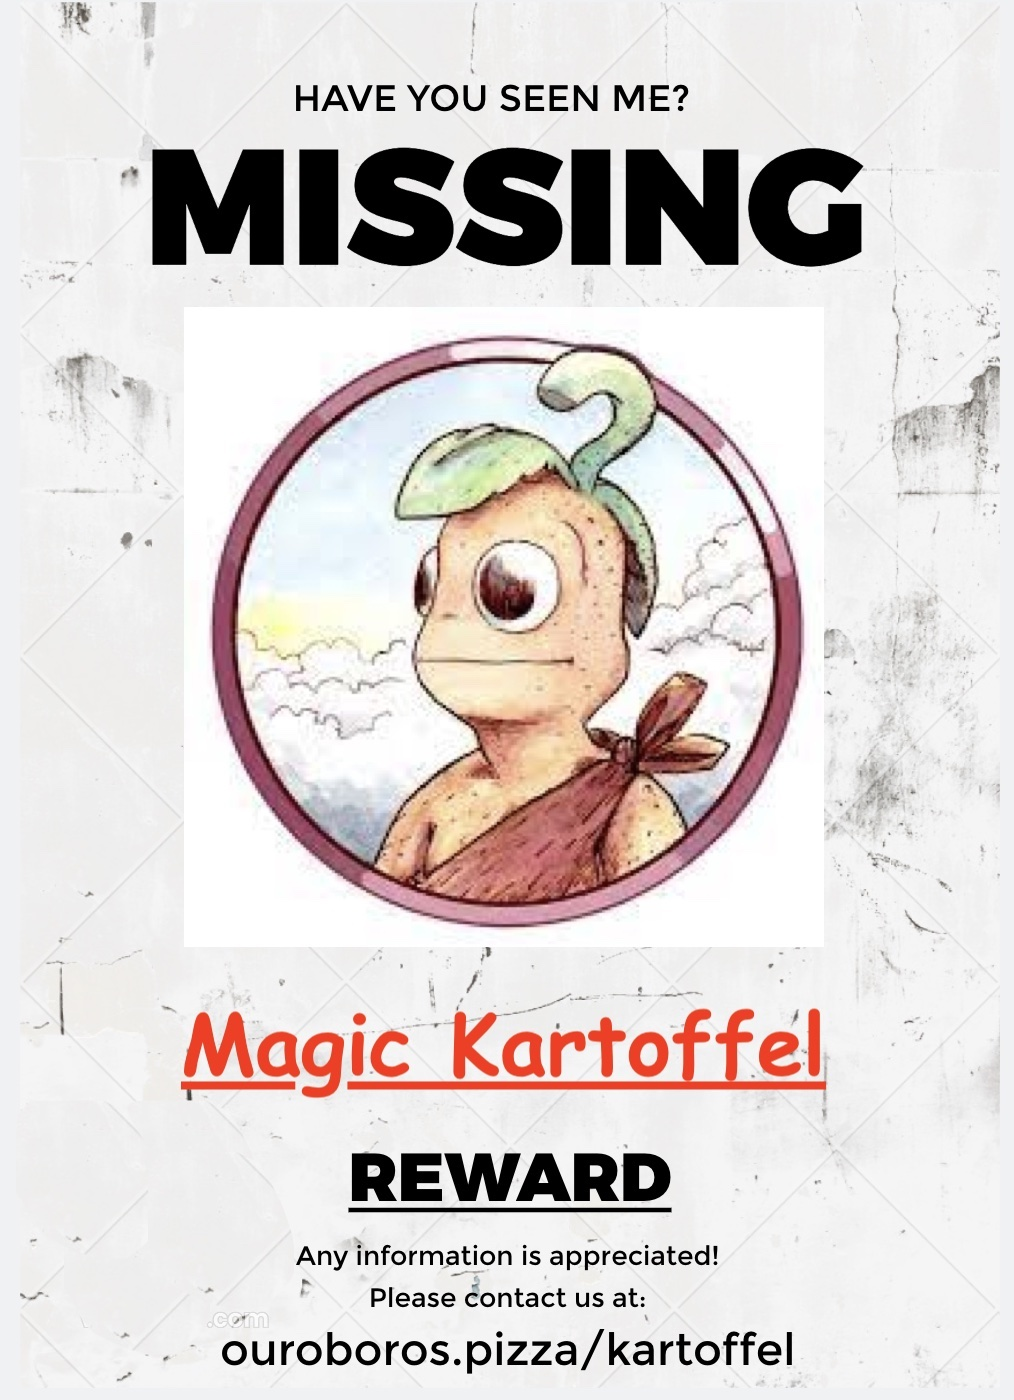
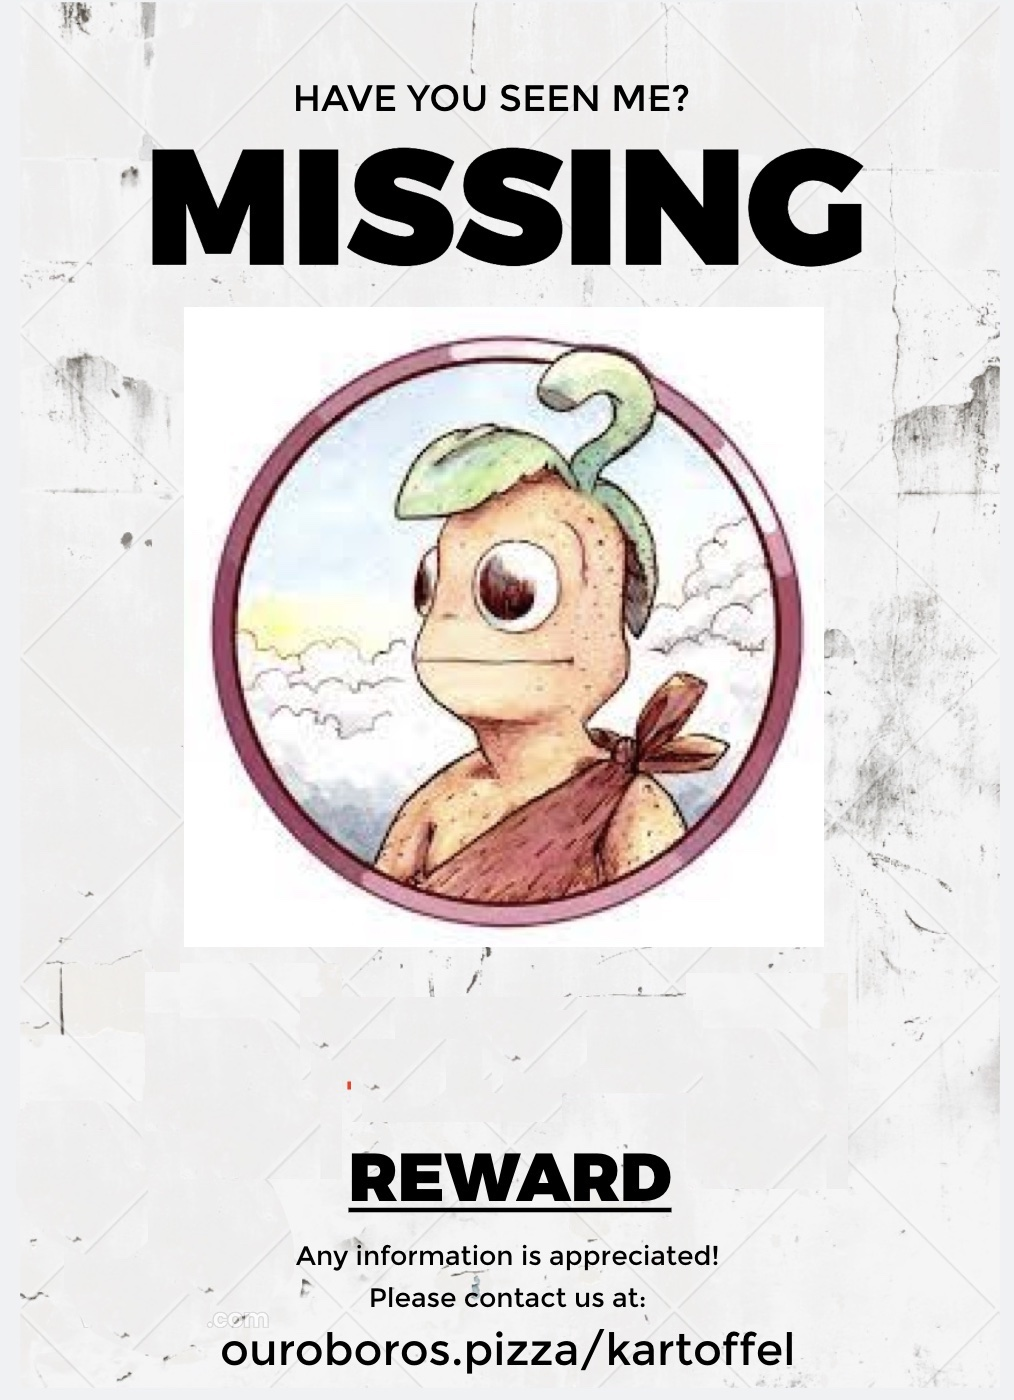
Remove images and modify form.

Changed region(s): [[0.1834, 0.7064, 0.8254, 0.7986]]

diff --git a/kartoffel.html b/kartoffel.html
@@ -35,11 +35,11 @@ div {
 <body>
 
 <div>
-<form id="my-form" action="https://formspree.io/f/mwkyywly" method="POST">
+  <form id="my-form" action="https://formspree.io/f/mwkyywly" method="POST">
+  <label>What information do you have about our friend? No tidbit is too tiny.</label>
+  <input type="text" name="message" />
   <label>How can we contact you?</label>
   <input type="text" name="email" /><br>
-  <label>What information do you have about Magic Kartoffel? No tidbit is too tiny.</label>
-  <input type="text" name="message" />
   <p id="my-form-status"></p>
   <input type="submit" value="Submit">
   </form>
@@ -60,19 +60,19 @@ div {
         }
       }).then(response => {
         if (response.ok) {
-          status.innerHTML = "Thanks for your help bringing Magic Kartoffel home!";
+          status.innerHTML = "Thanks for your help bringing our friend home!";
           form.reset()
         } else {
           response.json().then(data => {
             if (Object.hasOwn(data, 'errors')) {
               status.innerHTML = data["errors"].map(error => error["message"]).join(", ")
             } else {
-              status.innerHTML = "Oops! There was a problem submitting your form"
+              status.innerHTML = "Oops! There was a problem submitting your form. Please try again!"
             }
           })
         }
       }).catch(error => {
-        status.innerHTML = "Oops! There was a problem submitting your form"
+        status.innerHTML = "Oops! There was a problem submitting your form. Please try again!"
       });
     }
     form.addEventListener("submit", handleSubmit)
